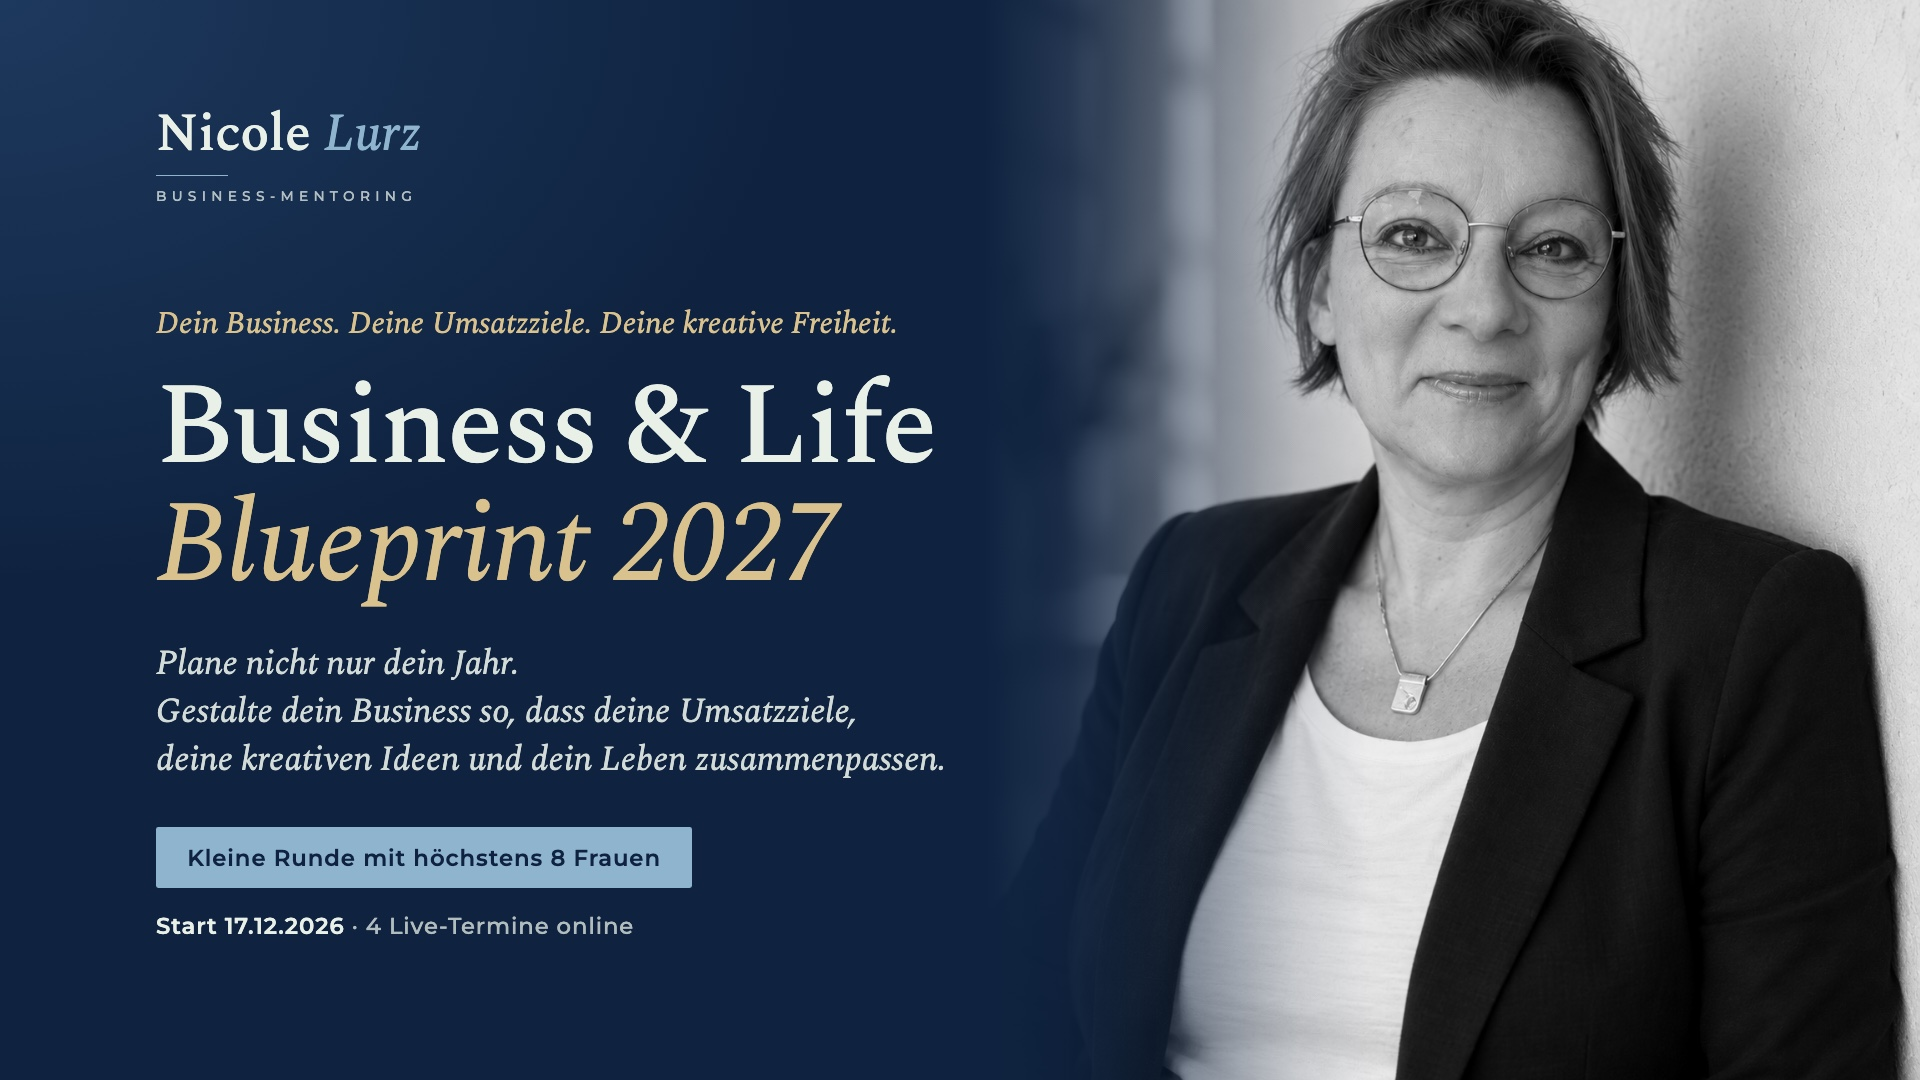
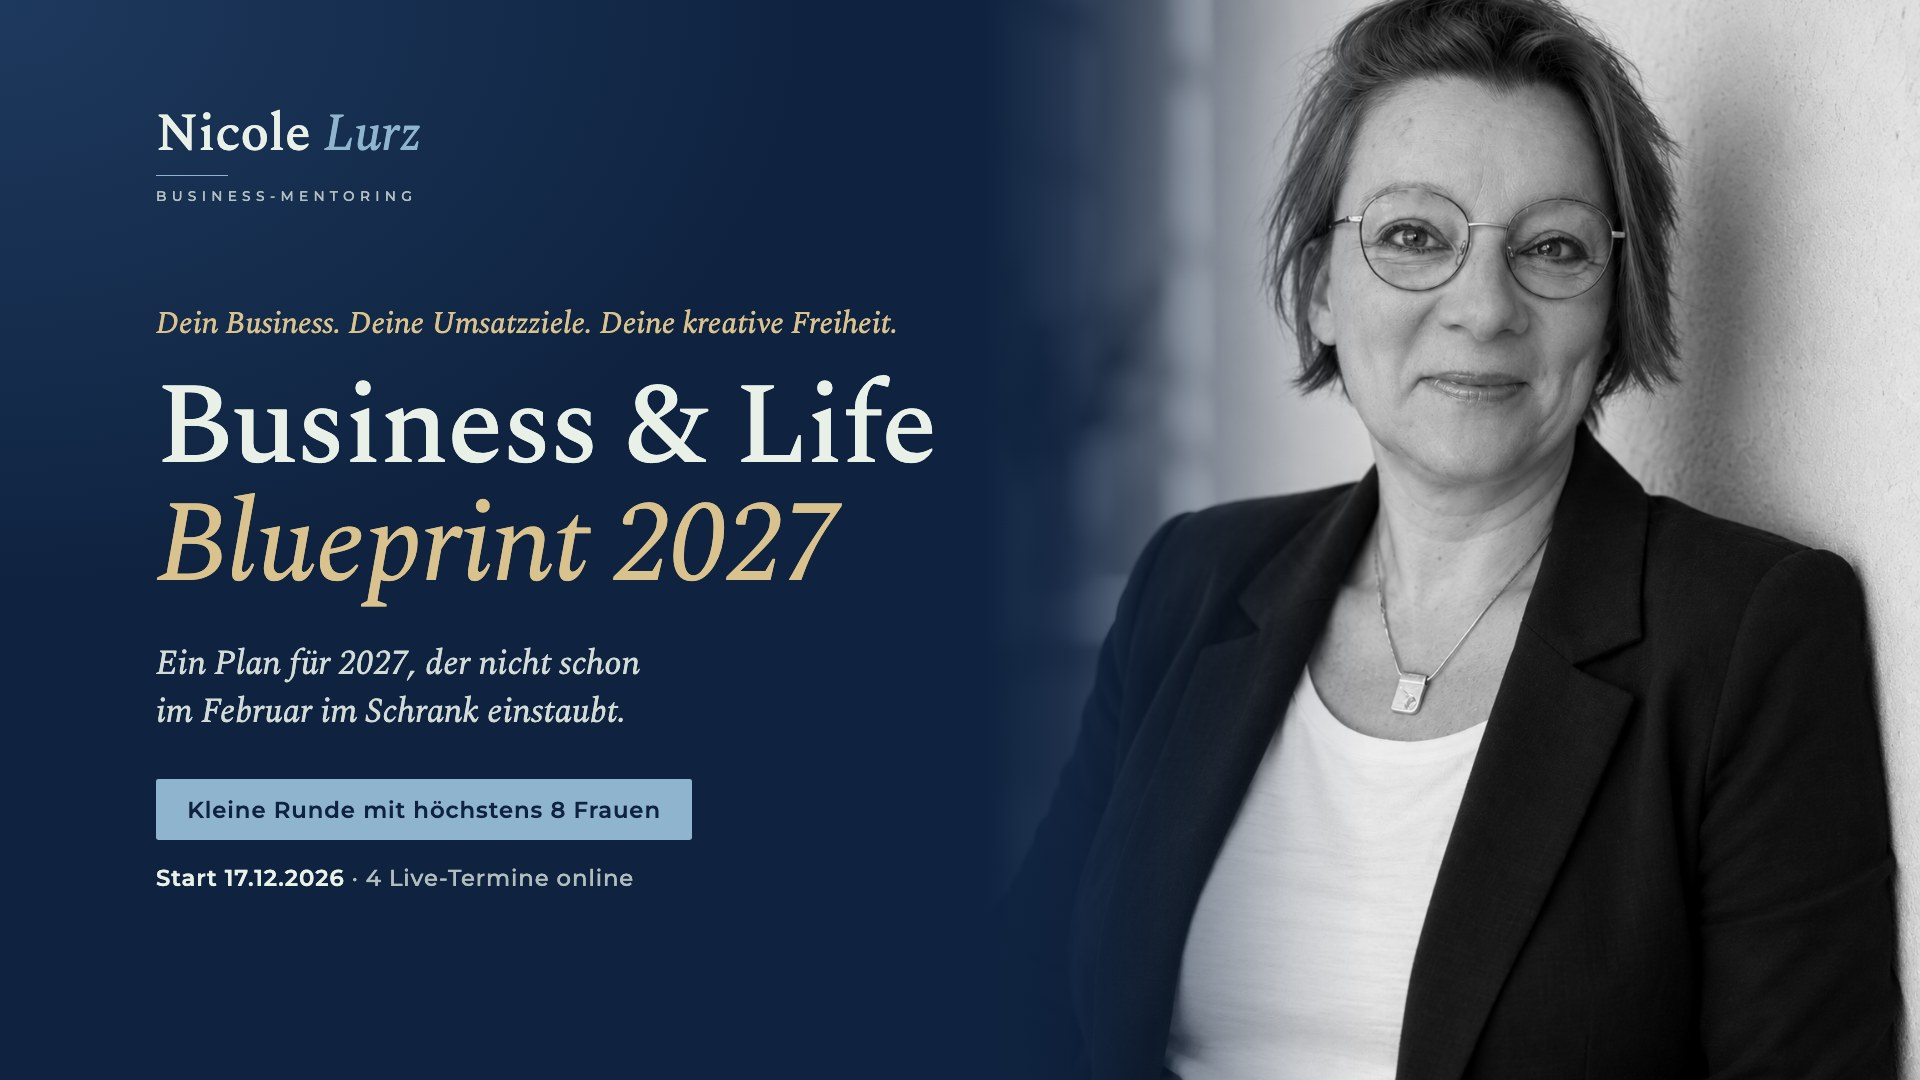
Blueprint 2027: Vorschaubild ohne Brillenspiegelung, neuer Claim

Changed region(s): [[0.0625, 0.5806, 0.5, 0.825], [0.0938, 0.8556, 0.3125, 0.8861]]

diff --git a/blueprint-2027/index.html b/blueprint-2027/index.html
@@ -10,7 +10,7 @@
 <meta property="og:url" content="https://nicole-lurz.com/blueprint-2027/">
 <meta property="og:title" content="Business &amp; Life Blueprint 2027 · Nicole Lurz">
 <meta property="og:description" content="Ein Plan für 2027, der nicht schon im Februar im Schrank einstaubt. Vier Live-Termine online, höchstens 8 Frauen, Start 17.12.2026.">
-<meta property="og:image" content="https://nicole-lurz.com/blueprint-2027/images/og-blueprint-2027.jpg">
+<meta property="og:image" content="https://nicole-lurz.com/blueprint-2027/images/og-blueprint-2027.jpg?v=2">
 <meta property="og:image:width" content="1920">
 <meta property="og:image:height" content="1080">
 <meta name="twitter:card" content="summary_large_image">
@@ -372,7 +372,7 @@ footer a{text-decoration:none}
   footer{padding-bottom:100px}
 }
 </style>
-<script type="application/ld+json">{"@context":"https://schema.org","@graph":[{"@type":"Event","@id":"https://nicole-lurz.com/blueprint-2027/#mentoring","name":"Business & Life Blueprint 2027","url":"https://nicole-lurz.com/blueprint-2027/","description":"Online-Live-Mentoring mit Nicole Lurz. Vier Live-Termine online in einer exklusiven Runde mit höchstens 8 Frauen, Start am 17.12.2026.","startDate":"2026-12-17","endDate":"2027-01-15","eventStatus":"https://schema.org/EventScheduled","eventAttendanceMode":"https://schema.org/OnlineEventAttendanceMode","location":{"@type":"VirtualLocation","url":"https://nicole-lurz.com/blueprint-2027/"},"image":"https://nicole-lurz.com/blueprint-2027/images/og-blueprint-2027.jpg","inLanguage":"de","organizer":{"@id":"https://nicole-lurz.com/#nicole"},"performer":{"@id":"https://nicole-lurz.com/#nicole"},"offers":[{"@type":"Offer","name":"Early Bird","price":"590","priceCurrency":"EUR","availability":"https://schema.org/LimitedAvailability","validFrom":"2026-11-16","validThrough":"2026-12-04","url":"https://nicole-lurz.com/blueprint-2027/"},{"@type":"Offer","name":"Regulär","price":"690","priceCurrency":"EUR","availability":"https://schema.org/LimitedAvailability","validFrom":"2026-12-05","validThrough":"2026-12-13","url":"https://nicole-lurz.com/blueprint-2027/"}],"maximumAttendeeCapacity":8},{"@type":"Person","@id":"https://nicole-lurz.com/#nicole","name":"Nicole Lurz","url":"https://nicole-lurz.com/","sameAs":["https://naturheilpraxis-lurz.de/","https://nicole-lurz.de/"]}]}</script>
+<script type="application/ld+json">{"@context":"https://schema.org","@graph":[{"@type":"Event","@id":"https://nicole-lurz.com/blueprint-2027/#mentoring","name":"Business & Life Blueprint 2027","url":"https://nicole-lurz.com/blueprint-2027/","description":"Online-Live-Mentoring mit Nicole Lurz. Vier Live-Termine online in einer exklusiven Runde mit höchstens 8 Frauen, Start am 17.12.2026.","startDate":"2026-12-17","endDate":"2027-01-15","eventStatus":"https://schema.org/EventScheduled","eventAttendanceMode":"https://schema.org/OnlineEventAttendanceMode","location":{"@type":"VirtualLocation","url":"https://nicole-lurz.com/blueprint-2027/"},"image":"https://nicole-lurz.com/blueprint-2027/images/og-blueprint-2027.jpg?v=2","inLanguage":"de","organizer":{"@id":"https://nicole-lurz.com/#nicole"},"performer":{"@id":"https://nicole-lurz.com/#nicole"},"offers":[{"@type":"Offer","name":"Early Bird","price":"590","priceCurrency":"EUR","availability":"https://schema.org/LimitedAvailability","validFrom":"2026-11-16","validThrough":"2026-12-04","url":"https://nicole-lurz.com/blueprint-2027/"},{"@type":"Offer","name":"Regulär","price":"690","priceCurrency":"EUR","availability":"https://schema.org/LimitedAvailability","validFrom":"2026-12-05","validThrough":"2026-12-13","url":"https://nicole-lurz.com/blueprint-2027/"}],"maximumAttendeeCapacity":8},{"@type":"Person","@id":"https://nicole-lurz.com/#nicole","name":"Nicole Lurz","url":"https://nicole-lurz.com/","sameAs":["https://naturheilpraxis-lurz.de/","https://nicole-lurz.de/"]}]}</script>
 <!-- GoatCounter: anonymer Seitenzähler, keine Cookies, keine personenbezogenen
      Daten, läuft deshalb unabhängig vom Consent-Banner. Domain vor dem Pfad,
      damit sich die Zahlen nicht mit nicole-lurz.de im selben Konto mischen. -->
